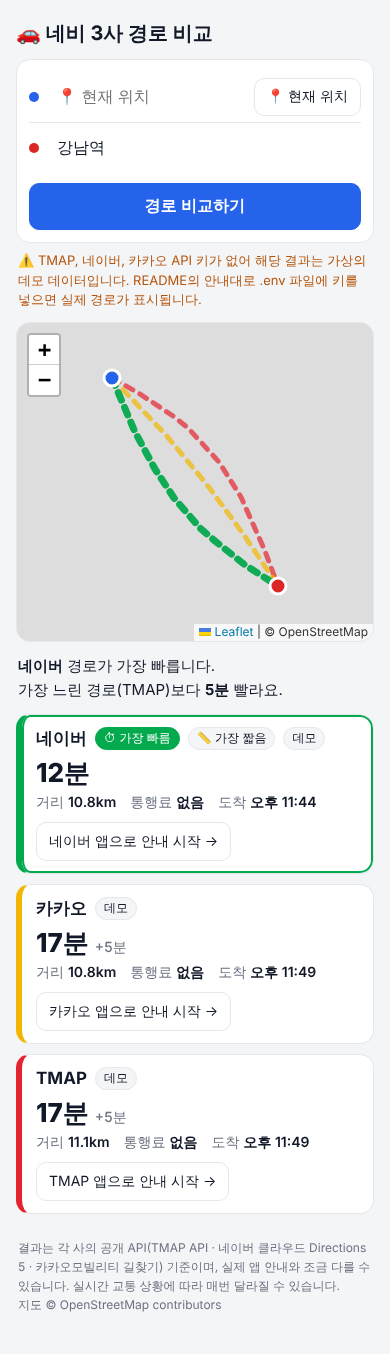
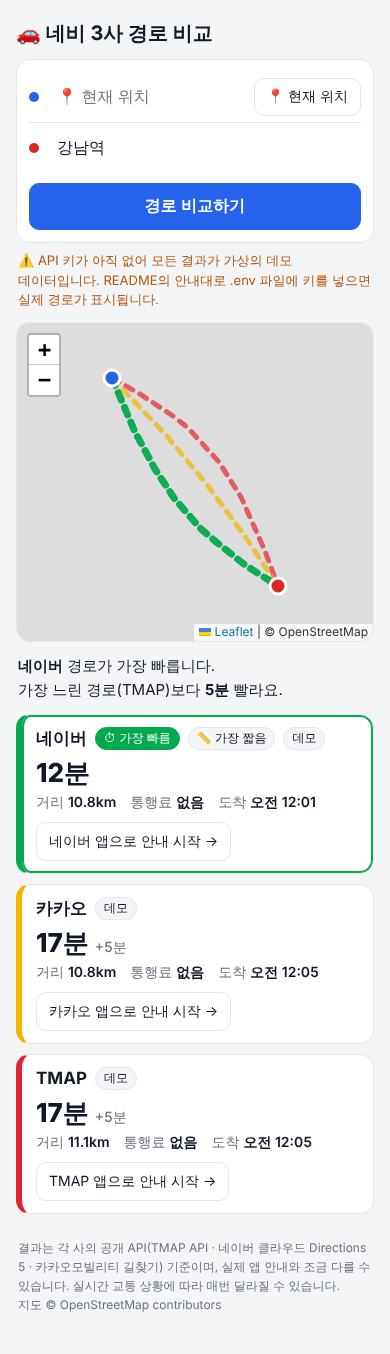
nav-compare: 키 일부만 있을 때 가짜 데이터 제외, 오류 안내 개선, 키 발급 가이드 갱신
Claude-Session: https://claude.ai/code/session_01XfCsCfE5TwhHY3VXXtA8BD

diff --git a/nav-compare/public/index.html b/nav-compare/public/index.html
@@ -52,6 +52,8 @@
   .stats span b { color: var(--text); font-weight: 600; }
   .card .open { margin-top: 10px; display: inline-block; text-decoration: none; }
   .err { color: #dc2626; font-size: 14px; margin-top: 6px; }
+  .skip { color: var(--sub); font-size: 14px; margin-top: 6px; }
+  .card.skipped { opacity: .65; }
   footer { font-size: 12px; color: var(--sub); margin: 24px 2px; line-height: 1.6; }
 </style>
 </head>
@@ -116,11 +118,14 @@ if (window.L) {
 // 데모 모드 안내
 fetch('/api/config').then(r => r.json()).then(({ providers }) => {
   const off = Object.entries(providers).filter(([, ok]) => !ok).map(([p]) => P[p].label);
-  if (off.length) {
+  if (off.length === 3) {
     $('demoNote').hidden = false;
     $('demoNote').textContent =
-      `⚠ ${off.join(', ')} API 키가 없어 해당 결과는 가상의 데모 데이터입니다. ` +
-      `README의 안내대로 .env 파일에 키를 넣으면 실제 경로가 표시됩니다.`;
+      '⚠ API 키가 아직 없어 모든 결과가 가상의 데모 데이터입니다. ' +
+      'README의 안내대로 .env 파일에 키를 넣으면 실제 경로가 표시됩니다.';
+  } else if (off.length) {
+    $('demoNote').hidden = false;
+    $('demoNote').textContent = `🔑 API 키 미등록: ${off.join(', ')} (비교에서 제외)`;
   }
 });
 
@@ -156,7 +161,17 @@ function bindSearch(inputId, suggId, key) {
     if (!q) { box.hidden = true; return; }
     timer = setTimeout(async () => {
       const near = state.me ? `&x=${state.me.x}&y=${state.me.y}` : '';
-      const { places } = await fetch(`/api/search?q=${encodeURIComponent(q)}${near}`).then(r => r.json());
+      let places;
+      try {
+        const res = await fetch(`/api/search?q=${encodeURIComponent(q)}${near}`).then(r => r.json());
+        if (res.error) throw new Error(res.error);
+        places = res.places || [];
+      } catch (err) {
+        box.innerHTML = '<div><small></small></div>';
+        box.querySelector('small').textContent = '장소 검색 오류: ' + err.message;
+        box.hidden = false;
+        return;
+      }
       box.innerHTML = '';
       if (!places.length) { box.innerHTML = '<div><small>검색 결과가 없습니다</small></div>'; box.hidden = false; return; }
       for (const p of places) {
@@ -187,7 +202,7 @@ async function compare() {
   $('summary').textContent = ''; $('cards').innerHTML = '';
   try {
     const { results, error } = await fetch(`/api/routes?sx=${s.x}&sy=${s.y}&ex=${e.x}&ey=${e.y}`).then(r => r.json());
-    if (error) throw new Error(error);
+    if (error || !results) throw new Error(error || '서버 응답 오류');
     render(results, s, e);
   } catch (err) {
     $('summary').textContent = '오류: ' + err.message;
@@ -206,12 +221,16 @@ function render(results, s, e) {
   if (window.L) drawMap(ok, minT, s, e);
 
   // 요약
-  if (ok.length) {
+  if (ok.length === 0) {
+    $('summary').textContent = '경로를 가져오지 못했습니다. 아래 카드의 오류 내용을 확인하세요.';
+  } else if (ok.length === 1) {
+    $('summary').innerHTML = `<b>${P[ok[0].provider].label}</b> 결과만 있어 비교할 수 없습니다.<br>API 키를 2개 이상 등록하세요.`;
+  } else {
     const fastest = ok.find(r => r.durationSec === minT);
     const slowest = ok.reduce((a, b) => (a.durationSec > b.durationSec ? a : b));
     const gap = slowest.durationSec - minT;
     $('summary').innerHTML = gap < 60
-      ? `세 네비의 예상 시간이 <b>거의 같습니다</b> (1분 이내 차이).`
+      ? `${ok.length}개 네비의 예상 시간이 <b>거의 같습니다</b> (1분 이내 차이).`
       : `<b>${P[fastest.provider].label}</b> 경로가 가장 빠릅니다.<br>가장 느린 경로(${P[slowest.provider].label})보다 <b>${fmtTime(gap)}</b> 빨라요.`;
   }
 
@@ -222,7 +241,11 @@ function render(results, s, e) {
     const card = document.createElement('div');
     card.className = 'card' + (r.ok && r.durationSec === minT ? ' best' : '');
     card.style.setProperty('--c', meta.color);
-    if (!r.ok) {
+    if (r.skipped) {
+      card.classList.add('skipped');
+      card.innerHTML = `<div class="card-head"><span class="name">${meta.label}</span></div>
+        <div class="skip">🔑 API 키가 없어 비교에서 제외했어요</div>`;
+    } else if (!r.ok) {
       card.innerHTML = `<div class="card-head"><span class="name">${meta.label}</span></div><div class="err"></div>`;
       card.querySelector('.err').textContent = '경로를 가져오지 못했습니다: ' + r.error;
     } else {

diff --git a/nav-compare/server.js b/nav-compare/server.js
@@ -185,9 +185,15 @@ const server = http.createServer(async (req, res) => {
       const s = { x: Number(u.searchParams.get('sx')), y: Number(u.searchParams.get('sy')) };
       const e = { x: Number(u.searchParams.get('ex')), y: Number(u.searchParams.get('ey')) };
       if (![s.x, s.y, e.x, e.y].every(Number.isFinite)) return sendJson(res, { error: '좌표가 올바르지 않습니다' }, 400);
+      // 키가 하나도 없을 때만 데모(가상) 경로를 보여줍니다.
+      // 일부만 있으면 가짜 데이터를 실제 결과와 섞지 않고, 키 없는 곳은 비교에서 뺍니다.
+      const anyReal = has.tmap || has.naver || has.kakao;
       const results = await Promise.all(Object.keys(ROUTERS).map(async p => {
         const t0 = Date.now();
-        if (!has[p]) return { provider: p, ok: true, demo: true, ...demoRoute(p, s, e) };
+        if (!has[p]) {
+          if (!anyReal) return { provider: p, ok: true, demo: true, ...demoRoute(p, s, e) };
+          return { provider: p, ok: false, skipped: true, error: 'API 키 미등록' };
+        }
         try {
           return { provider: p, ok: true, demo: false, ...(await ROUTERS[p](s, e)), ms: Date.now() - t0 };
         } catch (err) {
@@ -204,7 +210,10 @@ const server = http.createServer(async (req, res) => {
 
 server.listen(PORT, () => {
   console.log(`네비 비교 앱 실행 중 → http://localhost:${PORT}`);
-  for (const [p, ok] of Object.entries(has)) console.log(`  ${p.padEnd(6)} ${ok ? '실제 API' : '데모 모드 (키 없음)'}`);
+  const anyKey = Object.values(has).some(Boolean);
+  for (const [p, ok] of Object.entries(has)) {
+    console.log(`  ${p.padEnd(6)} ${ok ? '실제 API' : anyKey ? '키 없음 → 비교에서 제외' : '키 없음 → 데모(가상) 경로'}`);
+  }
 });
 
 // ───────────────────────── 유틸 ─────────────────────────
@@ -213,11 +222,23 @@ async function fetchJson(url, opts = {}) {
   const ctrl = new AbortController();
   const timer = setTimeout(() => ctrl.abort(), 10000);
   try {
-    const r = await fetch(url, { ...opts, signal: ctrl.signal });
+    let r;
+    try {
+      r = await fetch(url, { ...opts, signal: ctrl.signal });
+    } catch (err) {
+      if (err.name === 'AbortError') throw new Error('응답 시간 초과 (10초)');
+      throw new Error(`서버에 연결하지 못했습니다 (${new URL(url).host}). 인터넷 연결을 확인하세요.`);
+    }
     const text = await r.text();
-    let data;
-    try { data = JSON.parse(text); } catch { throw new Error(`HTTP ${r.status}: ${text.slice(0, 200)}`); }
-    if (!r.ok) throw new Error(`HTTP ${r.status}: ${data.message || data.msg || (data.error && (data.error.message || data.error.msg)) || text.slice(0, 200)}`);
+    let data = null;
+    try { data = JSON.parse(text); } catch { /* JSON이 아닌 응답 */ }
+    if (!r.ok || !data) {
+      const detail = (data && (data.message || data.msg || (data.error && (data.error.message || data.error.msg)) || (data.errorMessage))) || text.slice(0, 200);
+      const hint = r.status === 401 || r.status === 403 ? '키가 틀렸거나, 이 API 사용 권한이 꺼져 있습니다'
+        : r.status === 429 ? '사용량 한도를 넘었습니다'
+        : '요청이 실패했습니다';
+      throw new Error(`${hint} (HTTP ${r.status}: ${detail})`);
+    }
     return data;
   } finally {
     clearTimeout(timer);

diff --git a/nav-compare/README.md b/nav-compare/README.md
@@ -18,19 +18,71 @@ cp .env.example .env     # 키 입력 (아래 참고)
 node server.js           # → http://localhost:3000
 ```
 
-키를 하나도 안 넣어도 **데모 모드**(가상 경로, 점선 표시)로 화면을 미리 볼 수 있습니다.
+- 키가 **하나도 없으면**: 데모 모드(가상 경로, 점선)로 화면만 미리 볼 수 있습니다.
+- 키가 **일부만 있으면**: 키 없는 회사는 비교에서 빠집니다. (가짜 데이터를 섞지 않음)
+- 실제로 비교하려면 키가 **2곳 이상** 필요합니다.
+- `.env` 파일은 git에 올라가지 않게 막아 두었습니다. 키는 다른 사람에게 보여주지 마세요.
 
 > 휴대폰에서 현재 위치를 쓰려면 브라우저 정책상 **HTTPS** 주소가 필요합니다.
 > 집 PC에서 돌린다면 Cloudflare Tunnel·ngrok 같은 도구로 HTTPS 주소를 만들거나,
 > Render·Railway·Fly.io 같은 곳에 배포하세요.
 
-## API 키 발급 (모두 무료 쿼터 있음)
+## API 키 발급 방법
 
-| 서비스 | 발급처 | `.env` 항목 | 사용하는 API |
-|---|---|---|---|
-| TMAP | [SK open API](https://openapi.sk.com) | `TMAP_APP_KEY` | 자동차 경로안내 `POST /tmap/routes?version=1`, POI 검색 |
-| 네이버 | [네이버 클라우드 플랫폼 Maps](https://www.ncloud.com/product/applicationService/maps) | `NAVER_CLIENT_ID`, `NAVER_CLIENT_SECRET` | [Directions 5](https://api.ncloud-docs.com/docs/application-maps-directions5) `GET /driving` |
-| 카카오 | [Kakao Developers](https://developers.kakao.com) | `KAKAO_REST_API_KEY` | [카카오모빌리티 길찾기](https://developers.kakaomobility.com) `GET /v1/directions`, [로컬 키워드 검색](https://developers.kakao.com/docs/latest/ko/local/dev-guide) |
+키는 회사마다 **본인 계정으로 직접** 받아야 합니다.
+(약관 동의, 결제수단 등록, 과금 책임이 모두 계정 주인에게 있습니다.)
+아래 조건은 2026년 11월에 확인한 내용이며, 바뀔 수 있습니다.
+
+| 서비스 | 받을 값 | 비용 |
+|---|---|---|
+| TMAP | 앱 키 1개 | 무료 (경로 하루 1,000건) |
+| 카카오 | REST API 키 1개 | 비상업 개인용은 무료 쿼터 안에서 사용 |
+| 네이버 | Client ID + Client Secret | 건당 5원 (결제수단 등록 필요) |
+
+### 1) TMAP → `TMAP_APP_KEY`
+
+1. [SK open API](https://openapi.sk.com) 회원가입 · 로그인
+2. PRODUCTS → TMAP → 요금제에서 **Free(무료체험)** 선택
+3. 앱을 만들면 나오는 **앱 키(appKey)** 를 `.env`에 입력
+
+- 자동차 경로안내 무료 한도: 하루 1,000건
+  ([요금표](https://openapi.sk.com/products/calc?svcSeq=4&menuSeq=5))
+- 받은 데이터를 24시간 넘게 저장하면 안 됩니다. 이 앱은 저장하지 않습니다.
+  ([약관](https://tmapapi.tmapmobility.com/terms.html))
+- 화면 메뉴 이름은 바뀔 수 있습니다.
+
+### 2) 카카오 → `KAKAO_REST_API_KEY`
+
+1. [Kakao Developers](https://developers.kakao.com)에 카카오 계정으로 로그인
+2. 내 애플리케이션 → 애플리케이션 추가 (이름은 아무거나)
+3. 앱 키 메뉴의 **REST API 키**를 `.env`에 입력
+4. 제품 설정 → **카카오맵** → 사용 설정 **ON** (장소 검색에 필요)
+   ([공지](https://devtalk.kakao.com/t/api/140875))
+
+- 자동차 길찾기는 공식 문서상 "제휴 파트너용"입니다.
+  다만 카카오모빌리티 담당자가 데브톡에서 "비상업적 이용은 무료 쿼터 안에서
+  별도 제휴 없이 바로 사용 가능"이라고 답했습니다.
+  ([답변 1](https://devtalk.kakao.com/t/directions-api/150862),
+  [답변 2](https://devtalk.kakao.com/t/directions-api/151177))
+- 상업적으로 쓰면 쿼터 안이라도 제휴 계약이 필요합니다.
+- 403 오류가 나면: 카카오맵 사용 설정 확인 →
+  그래도 안 되면 데브톡 카카오내비 게시판에 앱 ID와 사용 목적을 적어 요청하세요.
+
+### 3) 네이버 → `NAVER_CLIENT_ID`, `NAVER_CLIENT_SECRET`
+
+1. [네이버 클라우드 플랫폼](https://www.ncloud.com) 회원가입 + **결제수단 등록**
+2. 콘솔 → Services → Application Services → **Maps** → 이용 신청
+3. Application 등록 → API 목록에서 **Directions 5 체크**
+   (체크 안 하면 429 오류)
+4. 인증 정보의 **Client ID / Client Secret**을 `.env`에 입력
+
+- 요금: Directions 5는 건당 5원 (VAT 별도).
+- 2025-07-01부터 지도 API 무료 이용량이 끝났다는 공지가 있습니다.
+  (같은 공지 안의 표와 엇갈리므로 **과금된다고 보는 게 안전**)
+  ([공지](https://www.gov-ncloud.com/support/notice/all/528))
+- 예: 하루 10번 비교 × 30일 = 300건 → 월 약 1,650원 (VAT 포함)
+- 콘솔에서 **이용 한도 설정**을 켜 두면 예상 밖 과금을 막을 수 있습니다.
+  ([가이드](https://guide.ncloud-docs.com/docs/maps-procedure))
 
 장소 검색은 카카오 키가 있으면 카카오 로컬 API, 없으면 TMAP POI 검색을 씁니다.
 
